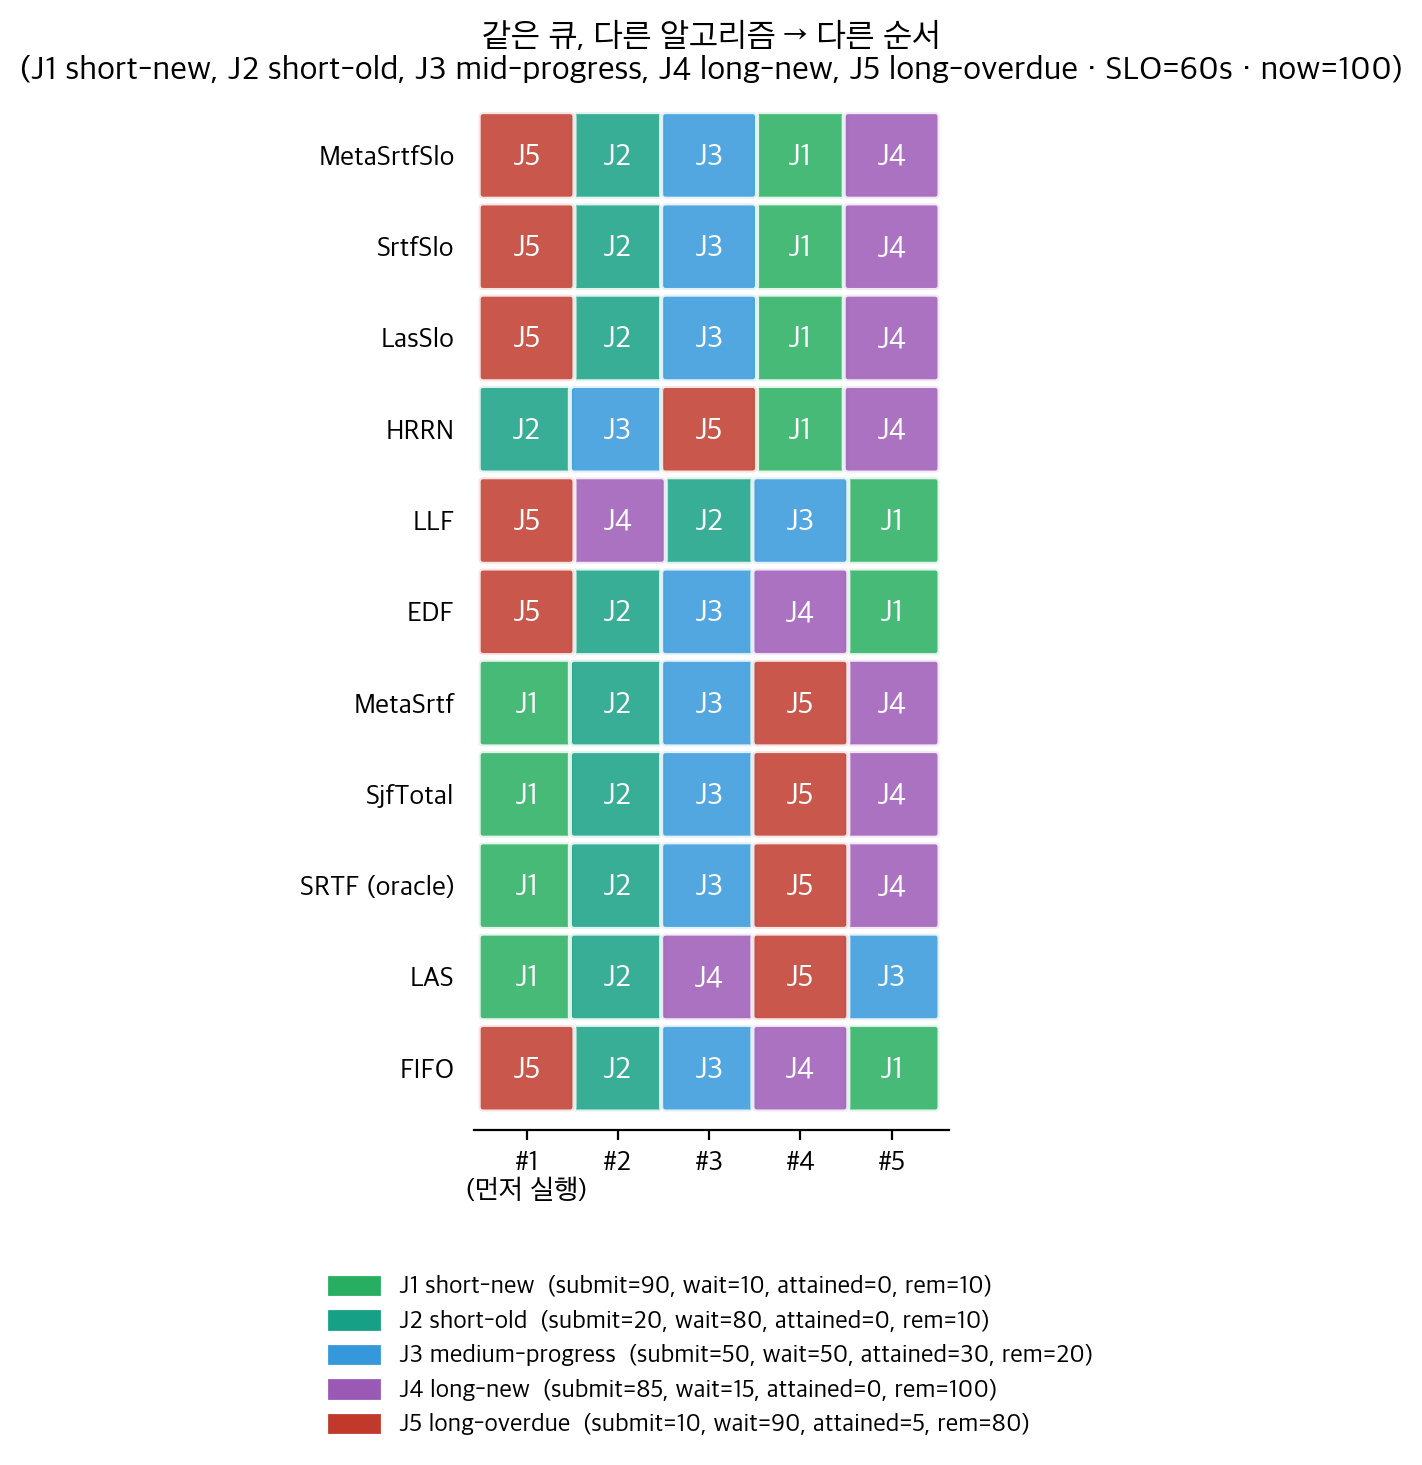
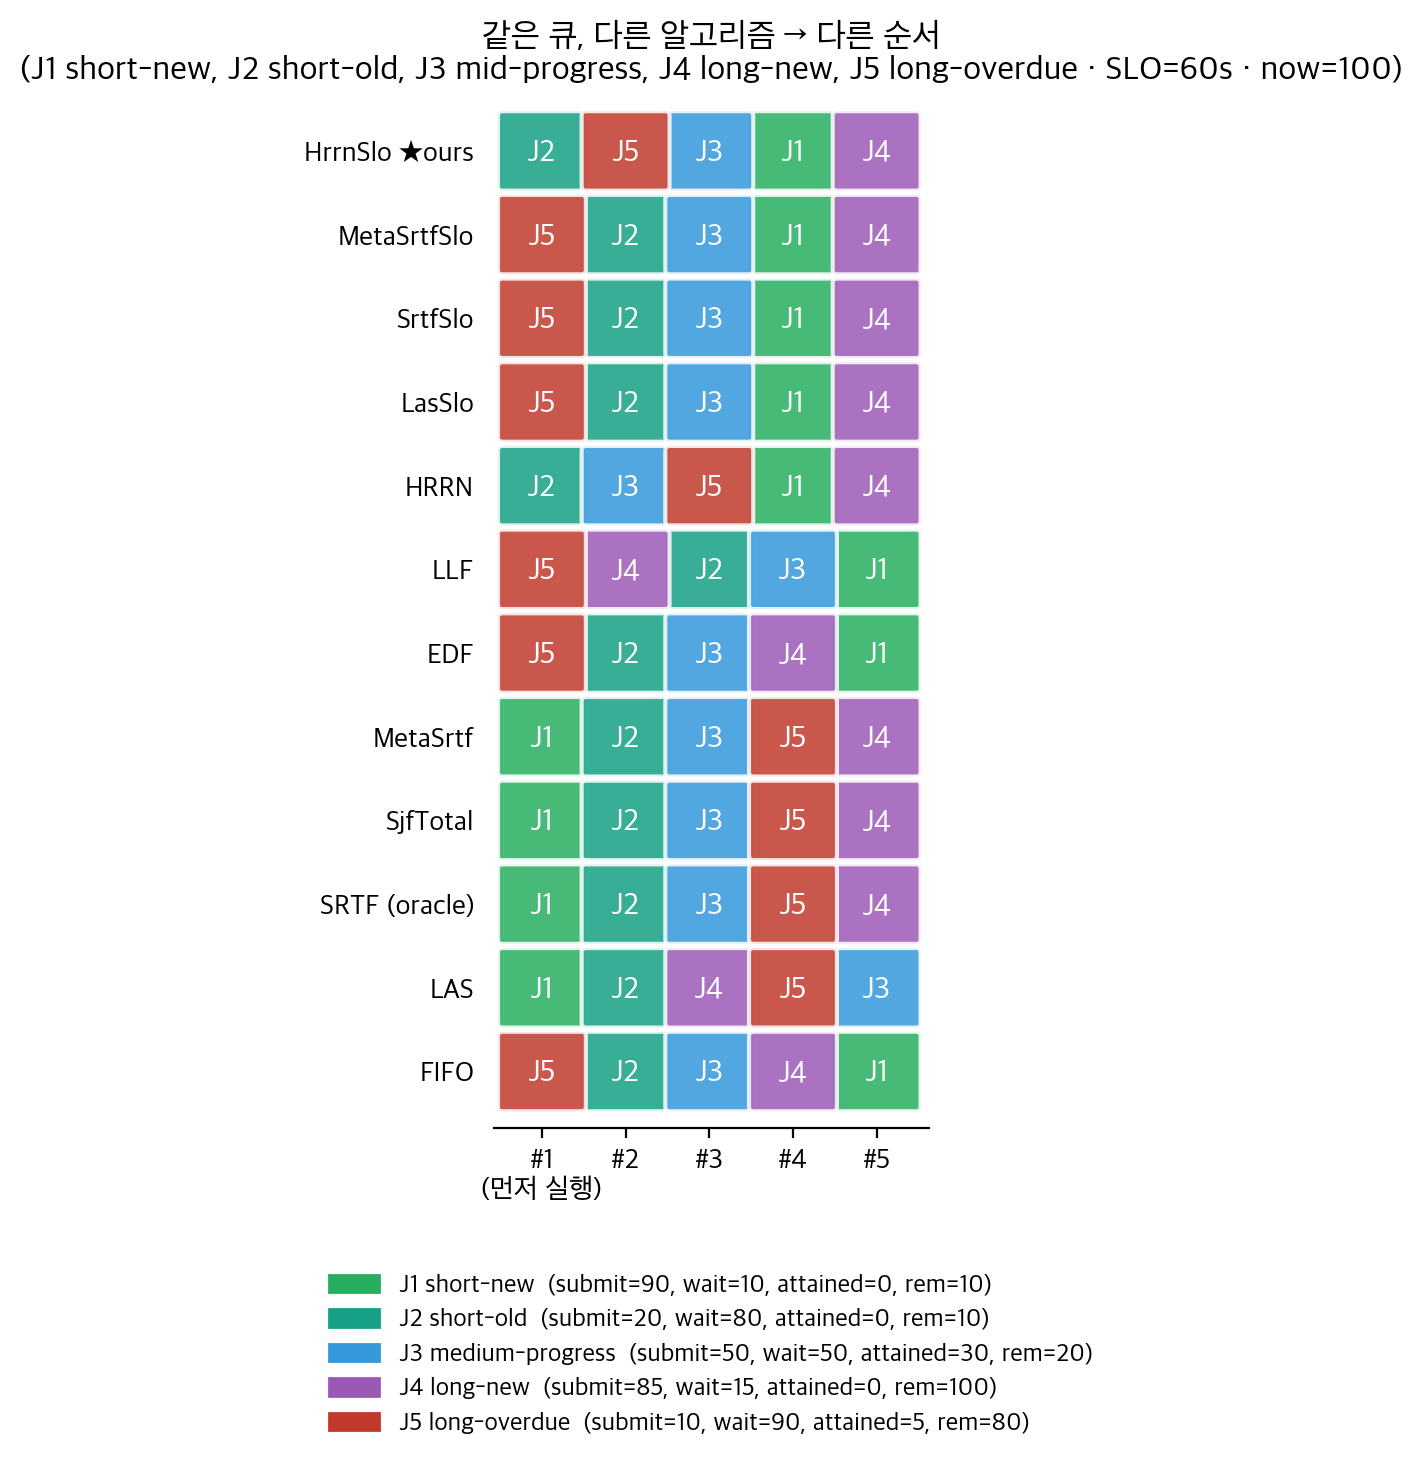
Add HrrnSlo to all algorithm gallery figures
User asked to audit visuals — HrrnSlo (the headline algorithm) was
missing from the gallery figures since it was added last. Now
included in all three:

algo_ordering_demo.png:
  HrrnSlo row added at top, colored red. Notably its ordering
  differs from other bucket variants: it picks J2 (short-old)
  first within bucket 0, then J5 (long-overdue), because secondary
  uses -R instead of -wait. This is a visual proof of design
  decision 1 from §4.4.6 — HrrnSlo preserves HRRN ranking even
  inside the critical bucket.

algo_feature_matrix.png:
  New HrrnSlo row showing signals used:
  submit_time, predicted_remaining (category-mean for R via
  total_iter × per_iter_time), SLO_target, wait_time.
  Red family-stripe matches the deck/report color.

algo_pseudocode_grid.png:
  New HrrnSlo card with ★★★ HEADLINE marker, exact sort key
  (bucket, -R), and result summary (-12~-50% vs FIFO, 1.5–3.5×
  amplification over HRRN alone in mixed workload).

Code changes (plot_algorithm_gallery.py):
- New algo_hrrnslo() sort function (bucket × -R)
- HrrnSlo entry added to ALGORITHMS list with ★ours marker
- Usage matrix row for HrrnSlo (multi-signal: aging + bucket)
- Red color (#dc2626) added to families dict
- Card definition with HEADLINE emphasis

Other figures audited but unchanged (correct as-is):
- sweep_avg_by_setup.png: pure inference contention sweep —
  HrrnSlo not tested here (it's tested on mixed workload via
  hrrnslo_headline.png and hrrnslo_walkthrough.png).
[…]

diff --git a/plot_algorithm_gallery.py b/plot_algorithm_gallery.py
@@ -97,19 +97,28 @@ def algo_metasrtfslo(j):
     if w >= THETA*SLO:return (1, remaining_meta(j))
     return (2, remaining_meta(j))
 
+def algo_hrrnslo(j):
+    """HrrnSlo (ours): bucket × -R. All buckets use -R for secondary."""
+    w = wait(j); s = max(1, j[6])
+    R = (w + s) / s
+    if w >= SLO:        return (0, -R)
+    if w >= THETA*SLO:  return (1, -R)
+    return (2, -R)
+
 
 ALGORITHMS = [
-    ("FIFO",          algo_fifo,        "사용: submit_time",                     "submit ↑"),
-    ("LAS",           algo_las,         "사용: attained_service",                 "attained ↑"),
-    ("SRTF (oracle)", algo_srtf,        "사용: 진짜 remaining (oracle)",          "remaining ↑"),
-    ("SjfTotal",      algo_sjftotal,    "사용: category-mean total",              "pred_total ↑"),
-    ("MetaSrtf",      algo_metasrtf,    "사용: metadata-predicted remaining",     "meta-rem ↑"),
-    ("EDF",           algo_edf,         "사용: submit + SLO (절대 deadline)",     "deadline ↑"),
-    ("LLF",           algo_llf,         "사용: deadline - now - remaining",       "slack ↑"),
-    ("HRRN",          algo_hrrn,        "사용: (wait + service) / service",       "R ↓"),
-    ("LasSlo",        algo_lasslo,      "bucket + LAS",                           "bucket→attained"),
-    ("SrtfSlo",       algo_srtfslo,     "bucket + SRTF",                          "bucket→remaining"),
-    ("MetaSrtfSlo",   algo_metasrtfslo, "bucket + MetaSrtf",                      "bucket→meta-rem"),
+    ("FIFO",            algo_fifo,        "사용: submit_time",                     "submit ↑"),
+    ("LAS",             algo_las,         "사용: attained_service",                 "attained ↑"),
+    ("SRTF (oracle)",   algo_srtf,        "사용: 진짜 remaining (oracle)",          "remaining ↑"),
+    ("SjfTotal",        algo_sjftotal,    "사용: category-mean total",              "pred_total ↑"),
+    ("MetaSrtf",        algo_metasrtf,    "사용: metadata-predicted remaining",     "meta-rem ↑"),
+    ("EDF",             algo_edf,         "사용: submit + SLO (절대 deadline)",     "deadline ↑"),
+    ("LLF",             algo_llf,         "사용: deadline - now - remaining",       "slack ↑"),
+    ("HRRN",            algo_hrrn,        "사용: (wait + service) / service",       "R ↓"),
+    ("LasSlo",          algo_lasslo,      "bucket + LAS",                           "bucket→attained"),
+    ("SrtfSlo",         algo_srtfslo,     "bucket + SRTF",                          "bucket→remaining"),
+    ("MetaSrtfSlo",     algo_metasrtfslo, "bucket + MetaSrtf",                      "bucket→meta-rem"),
+    ("HrrnSlo ★ours",   algo_hrrnslo,     "bucket + HRRN-R (★ headline 알고리즘)",  "bucket→-R"),
 ]
 
 
@@ -199,28 +208,20 @@ def fig_feature_matrix():
     ]
     # rows = algorithms, cols = features. 1 = uses, 0 = doesn't
     usage = {
-        # FIFO
-        "FIFO":         [1,0,0,0,0,0,0,0],
-        # LAS
-        "LAS":          [0,1,0,0,0,0,0,0],
-        # SRTF (oracle)
-        "SRTF (oracle)":[0,0,0,0,1,0,0,0],
-        # SjfTotal
-        "SjfTotal":     [0,0,1,0,0,0,0,0],
-        # MetaSrtf
-        "MetaSrtf":     [0,0,0,1,0,0,0,0],
-        # EDF
-        "EDF":          [1,0,0,0,0,1,0,1],
-        # LLF
-        "LLF":          [1,0,0,0,1,1,1,1],
-        # HRRN
-        "HRRN":         [1,0,1,0,0,0,1,0],
-        # LasSlo
-        "LasSlo":       [1,1,0,0,0,1,1,0],
-        # SrtfSlo
-        "SrtfSlo":      [1,0,0,0,1,1,1,0],
-        # MetaSrtfSlo
-        "MetaSrtfSlo":  [1,0,0,1,0,1,1,0],
+        "FIFO":           [1,0,0,0,0,0,0,0],
+        "LAS":            [0,1,0,0,0,0,0,0],
+        "SRTF (oracle)":  [0,0,0,0,1,0,0,0],
+        "SjfTotal":       [0,0,1,0,0,0,0,0],
+        "MetaSrtf":       [0,0,0,1,0,0,0,0],
+        "EDF":            [1,0,0,0,0,1,0,1],
+        "LLF":            [1,0,0,0,1,1,1,1],
+        "HRRN":           [1,0,1,0,0,0,1,0],
+        "LasSlo":         [1,1,0,0,0,1,1,0],
+        "SrtfSlo":        [1,0,0,0,1,1,1,0],
+        "MetaSrtfSlo":    [1,0,0,1,0,1,1,0],
+        # HrrnSlo (ours, headline) — uses submit, category-mean total (for R),
+        # SLO_target, wait_time. Multi-signal: aging + bucket cliff.
+        "HrrnSlo ★ours":  [1,0,1,0,0,1,1,0],
     }
     rows = list(usage.keys())
     matrix = np.array([usage[r] for r in rows])
@@ -249,6 +250,7 @@ def fig_feature_matrix():
         "EDF": "#16a085", "LLF": "#c0392b",
         "HRRN": "#8e44ad",
         "LasSlo": "#34495e", "SrtfSlo": "#16a085", "MetaSrtfSlo": "#0d3b66",
+        "HrrnSlo ★ours": "#dc2626",   # red — headline
     }
     for i, r in enumerate(rows):
         ax.add_patch(mpatches.Rectangle((-0.7, i - 0.4), 0.3, 0.8,
@@ -298,7 +300,10 @@ def fig_pseudocode_cards():
          "★ 장점: SRTF 효율 + tail 보호"),
         ("MetaSrtfSlo",  "#0d3b66",
          "(bucket, metadata-predicted remaining)",
-         "★★ 본 연구 winning combo: non-Oracle + safe"),
+         "★ 추론 전용: non-Oracle + safe"),
+        ("HrrnSlo (ours) ★★★", "#dc2626",
+         "(bucket, -R)   where R = (wait + service) / service",
+         "★★★ HEADLINE — mixed workload (CoV≈2.5)에서 FIFO대비 -12~-50%, HRRN단독 1.5~3.5×"),
     ]
     n = len(cards)
     cols = 3
